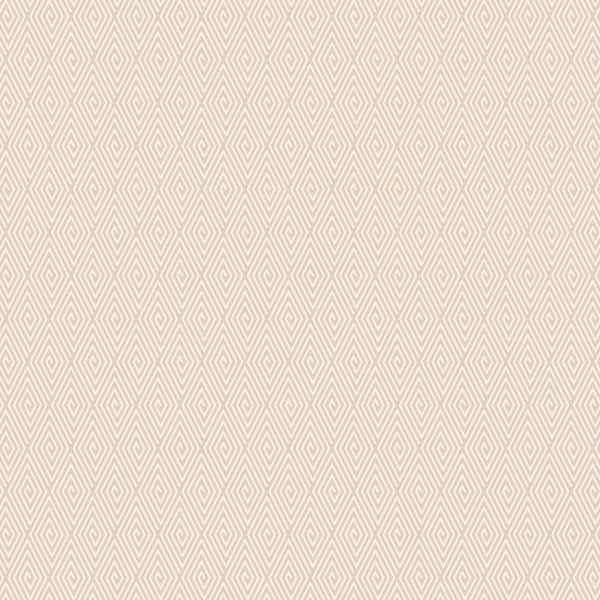
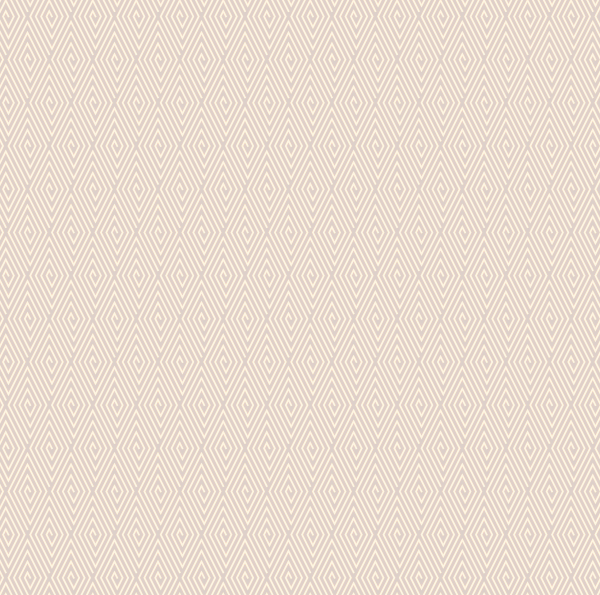
fixed background

Changed region(s): [[0.0, 0.3025, 1.0, 1.0]]

diff --git a/SantosGermanLabAct3/CSS/header-footer.css b/SantosGermanLabAct3/CSS/header-footer.css
@@ -9,10 +9,11 @@
 
 body {
     background-image: url("../images/bluetile.png");  
-      background-size: cover; 
+      /* background-size: cover;  */
       background-position: center; 
-      background-repeat: no-repeat; 
+      background-repeat: repeat; 
       height: 100%; 
+      object-fit: none;
 }
 
 .container {
